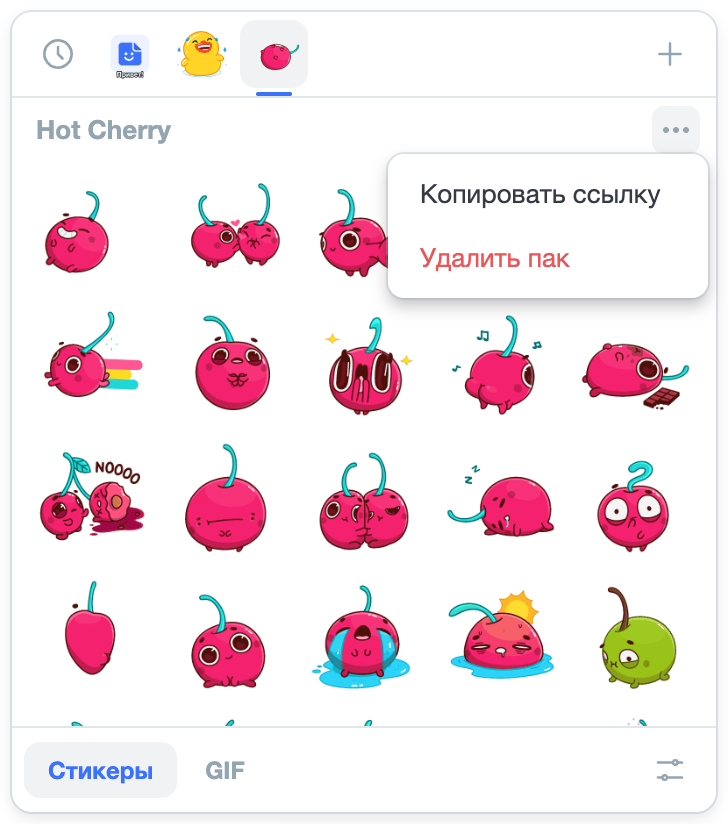
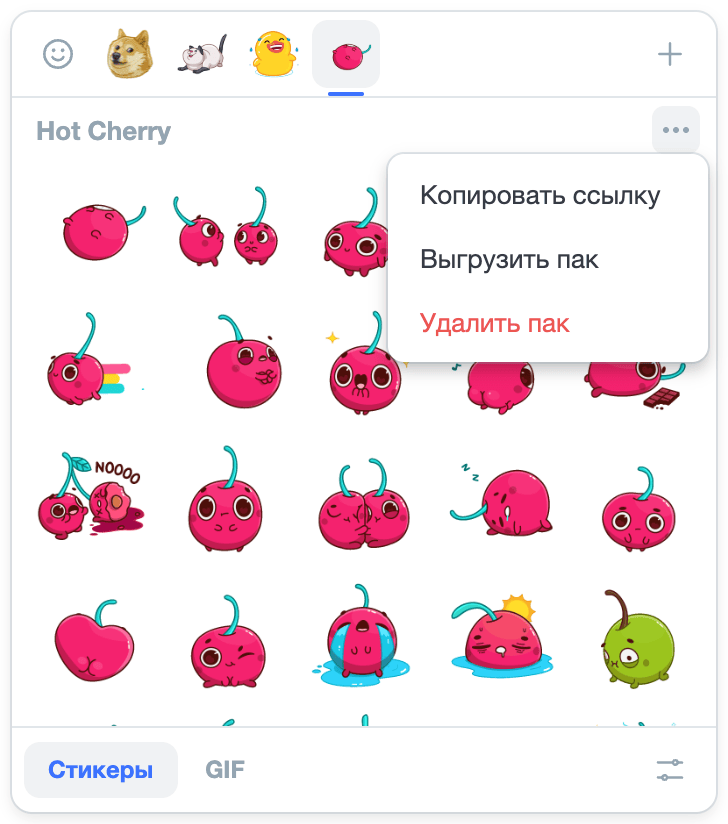
docs(pack-file-transfer): скрины загрузки из файла, группы «Библиотека» и меню пака

diff --git a/docs/content/setup/transfer.md b/docs/content/setup/transfer.md
@@ -13,7 +13,7 @@
 Откройте «Настройки» — значок справа внизу панели — и в группе «Библиотека» нажмите «Выгрузить библиотеку».
 Туда же ведёт ссылка «Выгрузить библиотеку» на вкладке «Файл» экрана «Добавить стикеры».
 
-<!-- скрин: img/setup/settings-library.png — «Настройки», прокручены вниз: группа «Библиотека» с пояснением, кнопкой «Выгрузить библиотеку» и ссылкой «Загрузить из файла» под ней -->
+<img src="../img/setup/settings-library.png" alt="Экран «Настройки» amo stickers, прокрученный вниз: группа «Библиотека» с пояснением, кнопкой «Выгрузить библиотеку» и ссылкой «Загрузить из файла»" width="364">
 
 Браузер скачает файл `amo-stickers-<дата>.amostickers` — как обычное скачивание, в папку загрузок. В нём все паки
 и свои стикеры. Ход выгрузки виден рядом с кнопкой, в конце — «Библиотека выгружена: стикеров N». Пока в библиотеке
@@ -25,7 +25,7 @@
 из файла» под кнопкой выгрузки в «Настройках». Нажмите «Выбрать файл» или перетащите файл в зону. Подойдёт и `.zip` —
 если файл переименовали или распаковали и запаковали архиватором.
 
-<!-- скрин: img/setup/file-import.png — вкладка «Файл» с выбранным файлом: на месте зоны — карточка с именем файла, «Заменить файл» в углу, паками и итогом «Новых паков: N, стикеров: M», в футере — кнопка «Импорт» -->
+<img src="../img/setup/file-import.png" alt="Экран «Добавить стикеры», вкладка «Файл»: на месте зоны — карточка файла amo-stickers-2026-10-18.amostickers с кнопкой «Заменить файл», четыре новых пака и итог «Новых паков: 4, стикеров: 150», в футере — кнопка «Импорт»" width="364">
 
 Карточка встанет на место зоны и покажет паки файла: сколько стикеров в новом паке и сколько добавится в пак, который
 уже есть. Длинный список паков прокручивается внутри карточки, а другой файл выбирает «Заменить файл» в её углу. Нажмите

diff --git a/openspec/changes/pack-file-transfer/journal.md b/openspec/changes/pack-file-transfer/journal.md
@@ -165,3 +165,20 @@ Critical итогового аудита закрыт: `isUnique` проверя
 11: .scroll-fade — маска по animation-timeline, а без её поддержки полоса прокрутки видна всегда.
 Аудит: ok с первого круга. Вопрос пользователю: новые MUST и сценарии в спеке (фокус после импорта, затухание списка) — согласие нужно. Без согласия код остаётся исправлением долга, а требования убираются. Ещё вопросы: выровнять ли Telegram и свой стикер (shouldFocusTab), ставить ли fake-indexeddb.
 Долг: у списка в фокусе с клавиатуры нет признака скрытых строк — можно показывать полосу по :focus-visible; в Chromium 115–1xx затухание не проверено; рваный перенос в spec.md:160; useImportEndFocus и isFocusLost без автотестов.
+
+### Ответы пользователя после F6
+
+- Новые MUST и сценарии спеки — фокус после импорта файла и затухание списка паков — оставить.
+- Фокус после импорта из Telegram и после сохранения своего стикера выровнять с файлом: scrollToSection с shouldFocusTab.
+- Поставить fake-indexeddb в devDependencies и покрыть тестом writeImport: атомарность, занятый id, createdAt после последнего стикера пака.
+- Пока список паков в фокусе с клавиатуры, показывать полосу прокрутки.
+Всё это пойдёт в F8 после F7 (скрины): сейчас дерево занято.
+
+### F7
+
+Пользователь попросил новые скрины. Сняты на стенде: 728×824, dpr 2, светлая тема — как соседние.
+- file-import.png: «Новых паков: 4, стикеров: 150».
+- settings-library.png: прокручено к «Библиотеке».
+- pack-menu.png переснят: три пункта.
+Паки — настоящие из Telegram: Hot Cherry, Duck, Cathbert, Just zoo it!. Сжаты pngquant (26–58 КБ). В transfer.md и usage.md (RU и EN) комментарии мест заменены картинками.
+Аудитора не было: координатор сам сверил три PNG с описаниями. Личных данных нет, в поле токена — плейсхолдер. docs:build и test проходят.

diff --git a/docs/content/en/setup/transfer.md b/docs/content/en/setup/transfer.md
@@ -13,7 +13,7 @@ of your library: export it from time to time, and after clearing you can loa
 Open “Settings” — the icon at the bottom right of the panel — and click “Export library” in the “Library” group.
 The “Export library” link on the “File” tab of the “Add stickers” screen leads there too.
 
-<!-- скрин: img/setup/settings-library.png — “Settings” scrolled down: the “Library” group with the description, the “Export library” button and the “Load from file” link under it -->
+<img src="../../img/setup/settings-library.png" alt="The amo stickers “Settings” screen scrolled down: the “Library” group with the description, the “Export library” button and the “Load from file” link" width="364">
 
 The browser downloads an `amo-stickers-<date>.amostickers` file — as a regular download, to your downloads folder.
 It has all packs and custom stickers. The export progress is shown next to the button, and at the end — “Library
@@ -25,7 +25,7 @@ exported, stickers: N”. While the library has no stickers, the button is u
 under the export button in “Settings”. Click “Choose file” or drop the file onto the zone. A `.zip` will do too —
 if the file was renamed or unpacked and packed again with an archiver.
 
-<!-- скрин: img/setup/file-import.png — the “File” tab with a file chosen: in place of the zone — the card with the file name, “Replace file” in the corner, the packs and the “New packs: N, stickers: M” total, the “Import” button in the footer -->
+<img src="../../img/setup/file-import.png" alt="The “Add stickers” screen, the “File” tab: in place of the zone — the card of the amo-stickers-2026-10-18.amostickers file with the “Replace file” button, four new packs and the “New packs: 4, stickers: 150” total, the “Import” button in the footer" width="364">
 
 The card takes the place of the zone and shows the packs in the file: how many stickers a new pack has and how many will
 be added to a pack you already have. A long list of packs scrolls inside the card, and “Replace file” in its corner

diff --git a/docs/content/en/usage.md b/docs/content/en/usage.md
@@ -49,7 +49,6 @@ The preview opened from the menu closes with Escape or a click, and the ar
 
 <div class="media-row">
 <img src="../img/usage/menu.png" alt="Sticker context menu: Preview and Delete sticker" width="300">
-<!-- скрин: img/usage/pack-menu.png — retake: the “…” menu in a pack header with “Copy link”, “Export pack” and “Delete pack” -->
 <img src="../img/usage/pack-menu.png" alt="The … menu in a pack header: Copy link, Export pack and Delete pack" width="300">
 </div>
 
